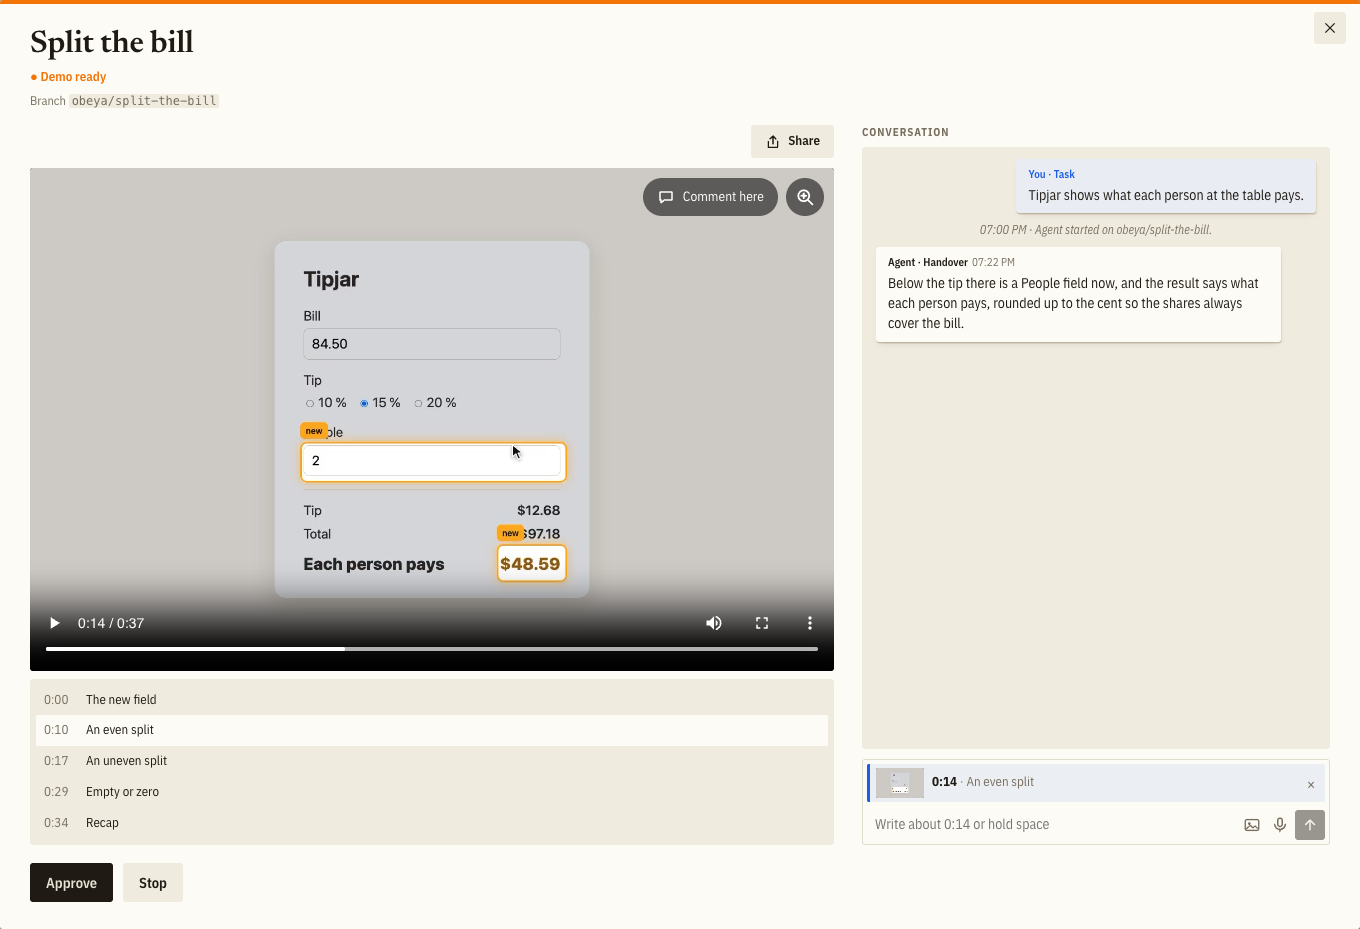
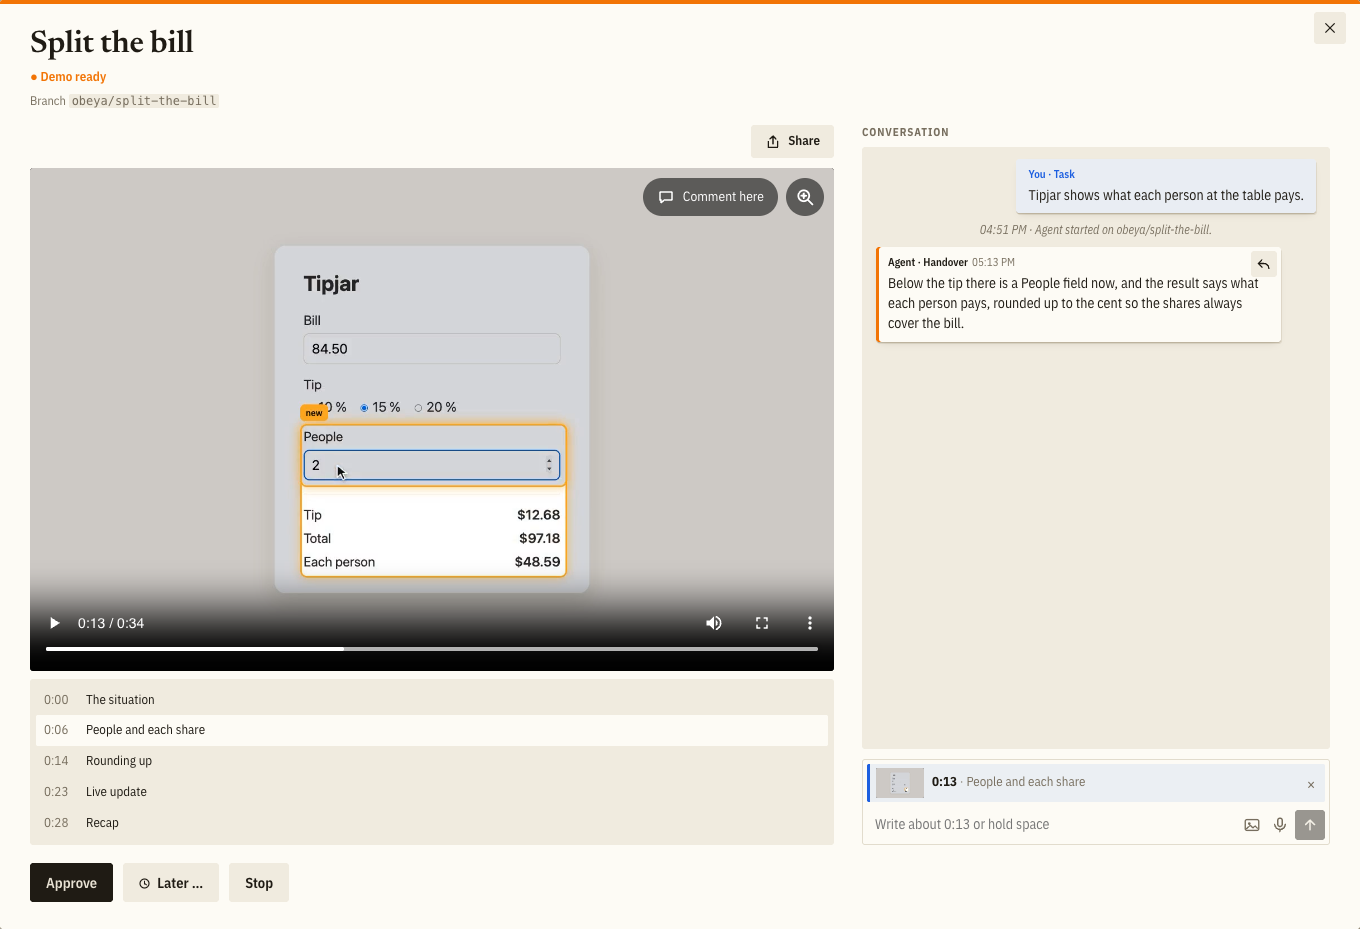
Version 0.4.0, with the hero video's poster and the site's screenshots taken again
The hero video's script now starts the agent's demo by hand where it did not start by itself, and the
site's screenshots take the chapters of the Tipjar demo they show from its chapters.vtt instead of
the times of an earlier render.

diff --git a/scripts/site-shots.ts b/scripts/site-shots.ts
@@ -7,7 +7,7 @@
 //
 // --demo names a Tipjar demo to put on that card (a directory with demo.mp4 and poster.jpg); without
 // it the newest ~/demos/tipjar-split-the-bill* is taken, which every render of the hero video leaves
-// behind (its agent's demo of splitting the bill). The scratch Obeya runs on port 4740 and is stopped
+// behind (its agent's demo of splitting the bill); its chapters come from its chapters.vtt. The scratch Obeya runs on port 4740 and is stopped
 // at the end; --keep leaves it running for a look, --stage-only stages it and takes nothing. Needs
 // Google Chrome.
 
@@ -40,6 +40,13 @@ function newestDemo(): string {
 }
 const demo = arg('--demo') ?? newestDemo();
 
+/** The demo's chapters from its `chapters.vtt`, as the card has them: [start in seconds, title]. */
+function chaptersOf(dir: string): [number, string][] {
+  const seconds = (t: string) => t.split(':').reduce((s, part) => s * 60 + Number(part), 0);
+  return [...readFileSync(join(dir, 'chapters.vtt'), 'utf8').matchAll(/^([\d:.]+) --> [\d:.]+\n(.+)$/gm)].map((m) => [Math.round(seconds(m[1]!) * 10) / 10, m[2]!.trim()]);
+}
+const chapters = chaptersOf(demo);
+
 // the hero video's repository and plan doc, with cards of our own
 const dir = mkdtempSync(join(tmpdir(), 'site-shots-'));
 const stageFile = join(dir, 'stage.json');
@@ -58,7 +65,7 @@ stage.cards = [
       { kind: 'review', author: 'worker', text: 'Below the tip there is a People field now, and the result says what each person pays, rounded up to the cent so the shares always cover the bill.', ago: '3m' },
     ],
     summary: 'Below the tip there is a People field now, and the result says what each person pays, rounded up to the cent so the shares always cover the bill.',
-    demo: { dir: demo, chapters: [[0, 'The new field'], [10.2, 'An even split'], [17.2, 'An uneven split'], [29.4, 'Empty or zero'], [34.6, 'Recap']] } },
+    demo: { dir: demo, chapters } },
   { key: 'C', title: 'Run the tests on every push', body: 'A GitHub Actions workflow runs bun test on every push.', state: 'working', statusLine: 'Writing the workflow', branch: 'obeya/ci', x: 1100, y: 100 },
   { key: 'I', title: 'App icon', body: 'An icon for the home screen.', state: 'waiting', need: 'question', x: 780, y: 260,
     branch: 'obeya/app-icon',
@@ -130,16 +137,16 @@ async function shots(page: Page, cards: Record<string, string>) {
   await page.mouse.move(5, 500);
   console.log('order.png');
 
-  // a demo to approve: the card unfolded, its video paused on the even split, tall enough for all its chapters
+  // a demo to approve: the card unfolded, its video paused in its second chapter (the change at work), tall enough for all its chapters
   await page.setViewportSize({ width: 1440, height: 1100 });
   await page.click(card(cards.S));
   await page.locator('#panel video').waitFor();
   await page.waitForTimeout(1500);
-  await page.locator('#panel video').evaluate(async (v: HTMLVideoElement) => {
+  await page.locator('#panel video').evaluate(async (v: HTMLVideoElement, at: number) => {
     v.pause();
-    v.currentTime = 14.5;
+    v.currentTime = at;
     await new Promise((r) => v.addEventListener('seeked', r, { once: true }));
-  });
+  }, chapters[1] ? chapters[1][0] + ((chapters[2]?.[0] ?? chapters[1][0] + 4) - chapters[1][0]) * 0.8 : 3);
   await page.hover('#panel video');
   await page.waitForTimeout(500);
   await page.screenshot({ path: join(IMG, 'demo.png'), clip: around([await boxOf(page, '#panel')], 0) });

diff --git a/scripts/hero-video/demo.ts b/scripts/hero-video/demo.ts
@@ -429,6 +429,11 @@ const scenes: Scene[] = [
     run: async (d) => {
       await bringIntoView(d, split(d));
       await d.click(split(d));
+      // the demo starts by itself on its first opening; where it did not (one render of 2026-10-17,
+      // with the agent's app still served in the background), it is started as the owner would
+      await d.wait(1200);
+      const play = d.page.locator('.player button.start');
+      if (await play.isVisible()) await d.click(play);
       await saying(d, narration.demo, 'and a short report');
       await d.highlight(d.page.locator('.talk.conv').first(), 'report');
       await saying(d, narration.demo, 'You judge');
